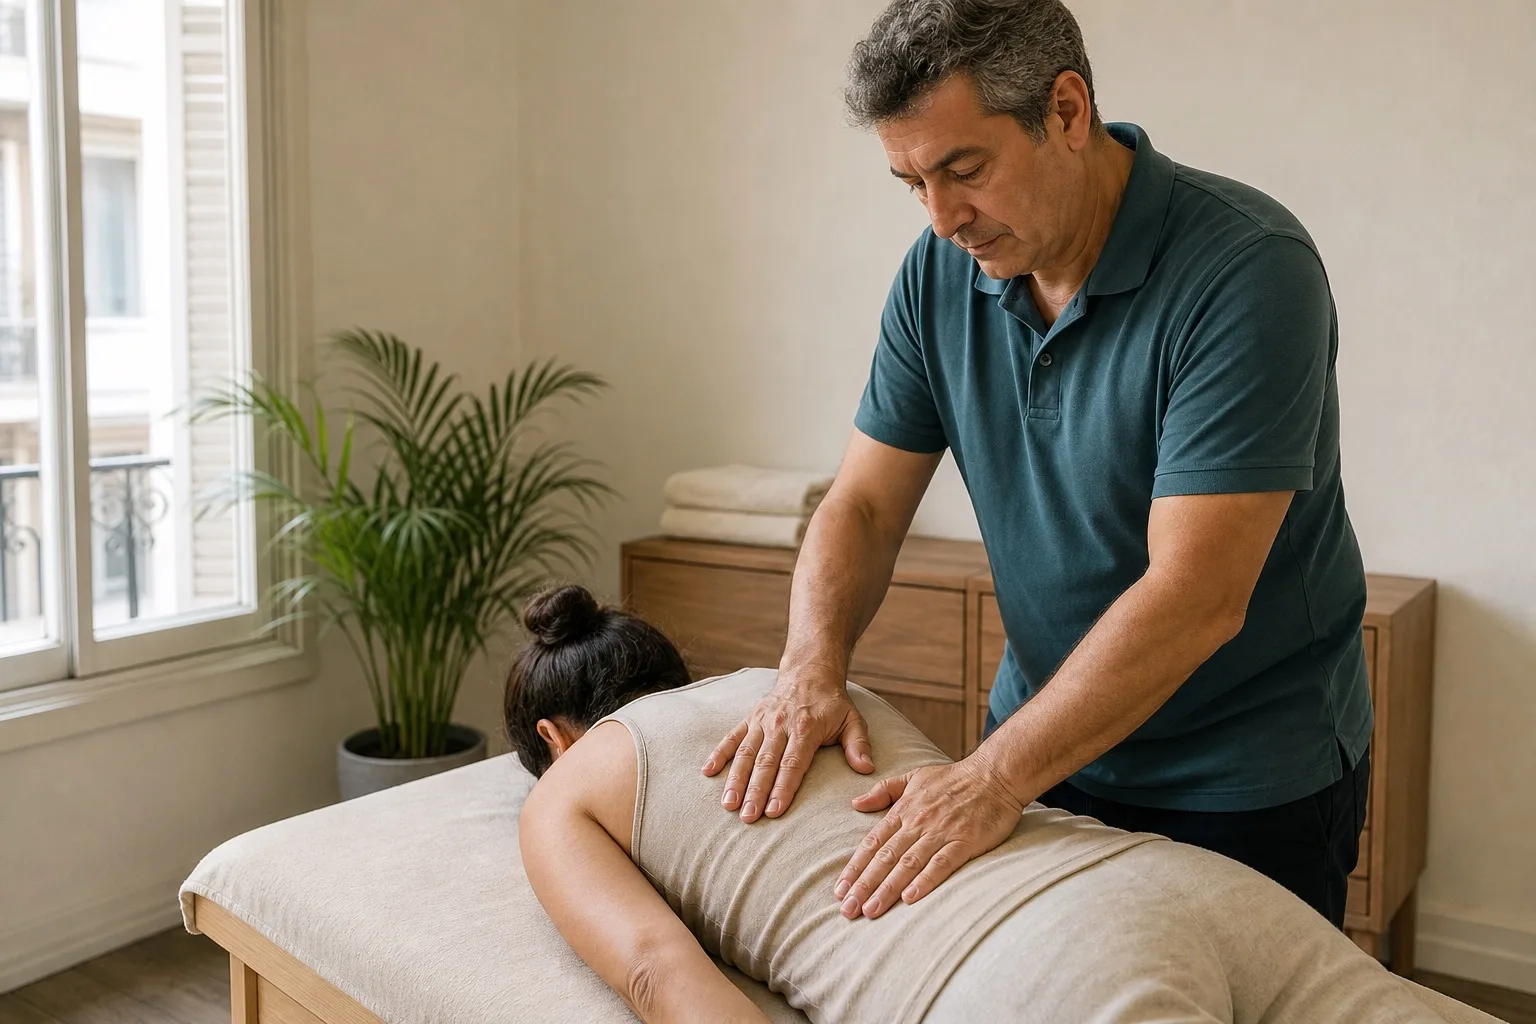
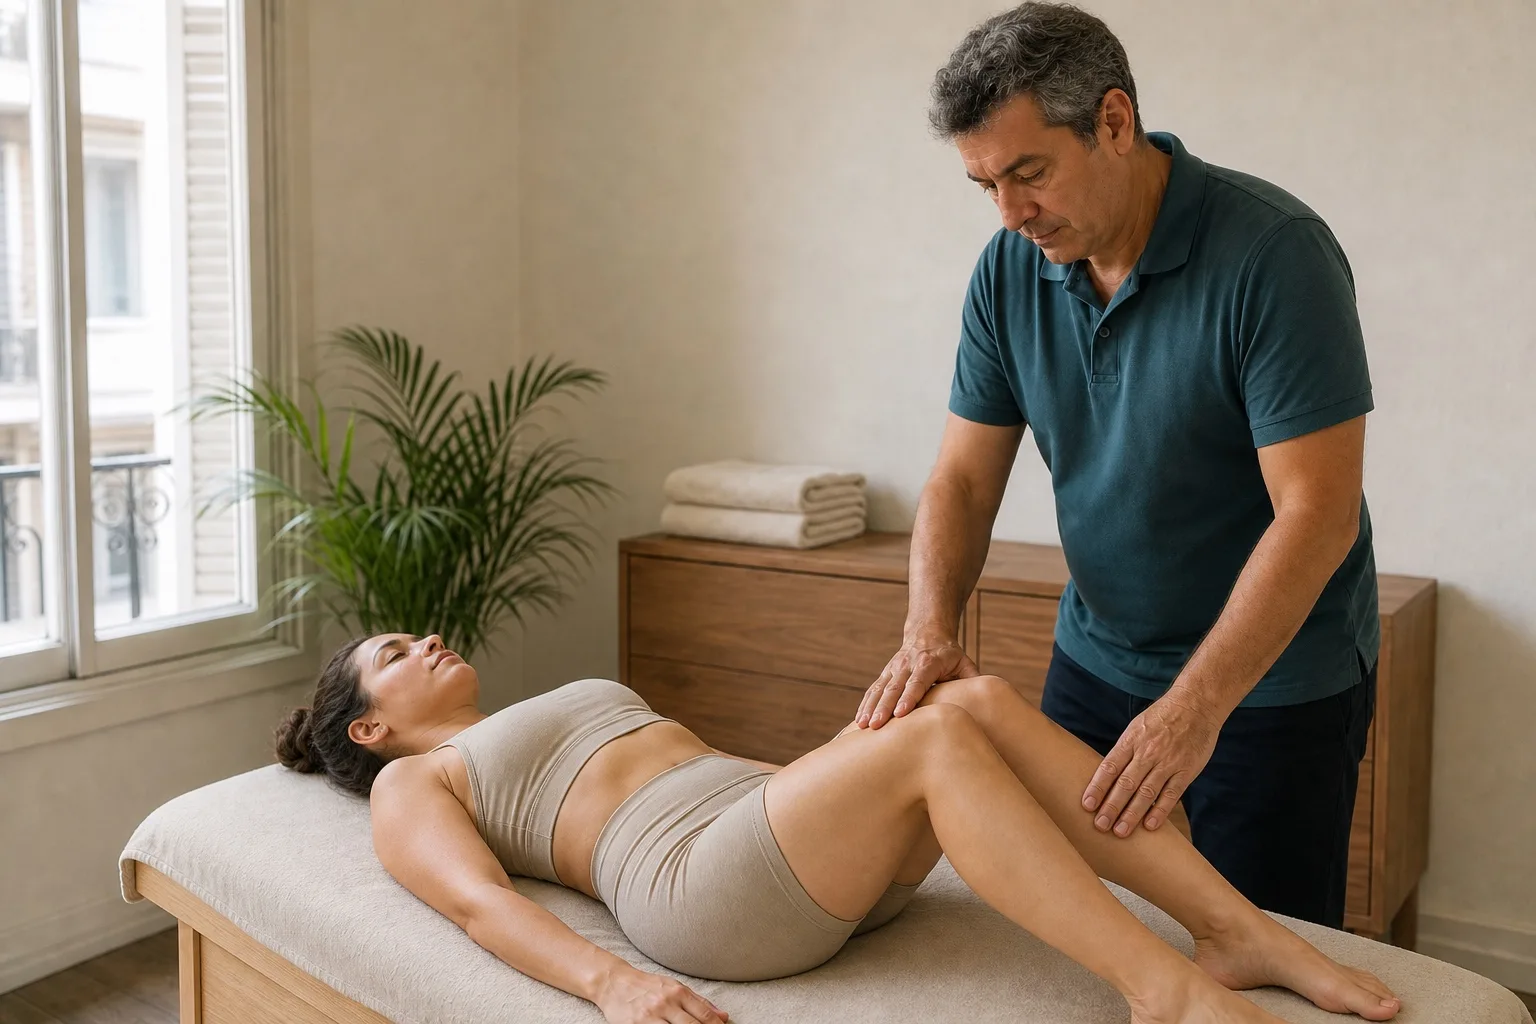
Replace the RPG photo with a supine two-piece session and bust the CDN cache.

diff --git a/rpg.html b/rpg.html
@@ -469,7 +469,7 @@
             <p class="lead">La Reeducación Postural Global es un Método de Tratamiento creado en 1980 por el fisioterapeuta PH Souchard. Investigando en la organización postural concluyó que la Postura depende de la tensión de los músculos estáticos (los que se oponen a la acción de la Fuerza de Gravedad). Definió la forma en que se organizan estos músculos con el nombre de Cadenas Musculares.</p>
           </div>
           <figure class="method-figure">
-            <img src="images/rpg.webp?v=1787650431" alt="RPG – Reeducación postural global" width="1536" height="1024" decoding="async" fetchpriority="high" />
+            <img src="images/rpg.webp?v=1787654492" alt="RPG – Reeducación postural global" width="1536" height="1024" decoding="async" fetchpriority="high" />
           </figure>
           <div class="method-page-body">
             <p>Se realiza una evaluación donde se define cuáles son las cadenas que más se acortaron y se relacionan con el motivo de consulta. Utiliza posturas de tratamiento para estirarlas en forma suave, progresiva y sostenida. Son posturas activas donde el terapeuta guía el estiramiento y corrige las compensaciones. Busca remontar del síntoma a la causa primaria en el desalineamiento postural. Se trabaja en sesiones individuales. La frecuencia de las sesiones es generalmente semanal.</p>

diff --git a/fr/rpg.html b/fr/rpg.html
@@ -469,7 +469,7 @@
             <p class="lead">La RPG est une méthode créée en 1980 par le kinésithérapeute PH Souchard. Ses recherches sur l'organisation posturale ont montré que la posture dépend de la tension des muscles statiques (ceux qui s'opposent à la gravité).</p>
           </div>
           <figure class="method-figure">
-            <img src="../images/rpg.webp?v=1787650431" alt="RPG — Rééducation posturale globale" width="1536" height="1024" decoding="async" fetchpriority="high" />
+            <img src="../images/rpg.webp?v=1787654492" alt="RPG — Rééducation posturale globale" width="1536" height="1024" decoding="async" fetchpriority="high" />
           </figure>
           <div class="method-page-body">
             <p>Il a défini leur organisation sous le nom de chaînes musculaires. Une évaluation détermine quelles chaînes sont les plus raccourcies et leur lien avec le motif de consultation. Des postures de traitement étirent ces chaînes en douceur, progressivement et durablement. Ce sont des postures actives : le thérapeute guide l'étirement et corrige les compensations. L'objectif est de remonter du symptôme à la cause posturale. Les séances sont individuelles, en général une fois par semaine.</p>

diff --git a/en/rpg.html b/en/rpg.html
@@ -469,7 +469,7 @@
             <p class="lead">RPG is a treatment method created in 1980 by physiotherapist PH Souchard. Through his research on postural organization, he concluded that posture depends on the tension of static muscles (those that oppose the action of gravity).</p>
           </div>
           <figure class="method-figure">
-            <img src="../images/rpg.webp?v=1787650431" alt="RPG – Global Postural Reeducation" width="1536" height="1024" decoding="async" fetchpriority="high" />
+            <img src="../images/rpg.webp?v=1787654492" alt="RPG – Global Postural Reeducation" width="1536" height="1024" decoding="async" fetchpriority="high" />
           </figure>
           <div class="method-page-body">
             <p>He defined the way these muscles are organized as muscle chains. An evaluation identifies which chains have shortened most and how they relate to your presenting complaint. Treatment postures gently, progressively, and sustainably stretch them. These are active postures where the therapist guides the stretch and corrects compensations. The goal is to address the underlying postural cause behind the symptom. Sessions are one-to-one and usually scheduled weekly.</p>

diff --git a/pt/rpg.html b/pt/rpg.html
@@ -465,7 +465,7 @@
             <p class="lead">A RPG é um método criado em 1980 pelo fisioterapeuta PH Souchard. Suas pesquisas sobre organização postural mostraram que a postura depende da tensão dos músculos estáticos (aqueles que se opõem à gravidade).</p>
           </div>
           <figure class="method-figure">
-            <img src="../images/rpg.webp?v=1787650431" alt="RPG — Reeducação Postural Global" width="1536" height="1024" decoding="async" fetchpriority="high" />
+            <img src="../images/rpg.webp?v=1787654492" alt="RPG — Reeducação Postural Global" width="1536" height="1024" decoding="async" fetchpriority="high" />
           </figure>
           <div class="method-page-body">
             <p>Ele definiu essa organização como cadeias musculares. Uma avaliação identifica quais cadeias estão mais encurtadas e como se relacionam com o motivo da consulta. Posturas terapêuticas alongam essas cadeias de forma suave, progressiva e sustentável. São posturas ativas: o terapeuta orienta o alongamento e corrige compensações. O objetivo é ir do sintoma à causa postural. As sessões são individuais, em geral semanais.</p>

diff --git a/fr/index.html b/fr/index.html
@@ -501,7 +501,7 @@
           <div class="col-lg-4 col-md-4 col-sm-12 col-xs-12">
             <div class="service-block">
               <div class="service-img mb20">
-                <a href="/fr/rpg.html"><img src="../images/rpg.webp?v=1787650431" title="RPG"
+                <a href="/fr/rpg.html"><img src="../images/rpg.webp?v=1787654492" title="RPG"
                     alt="Séance de rééducation posturale globale (RPG)" class="img-responsive" loading="lazy" /></a>
               </div>
               <div class="service-content">

diff --git a/pt/index.html b/pt/index.html
@@ -497,7 +497,7 @@
           <div class="col-lg-4 col-md-4 col-sm-12 col-xs-12">
             <div class="service-block">
               <div class="service-img mb20">
-                <a href="/pt/rpg.html"><img src="../images/rpg.webp?v=1787650431" title="RPG"
+                <a href="/pt/rpg.html"><img src="../images/rpg.webp?v=1787654492" title="RPG"
                     alt="Sessão de Reeducação Postural Global (RPG)" class="img-responsive" loading="lazy" /></a>
               </div>
               <div class="service-content">

diff --git a/en/index.html b/en/index.html
@@ -502,7 +502,7 @@
           <div class="col-lg-4 col-md-4 col-sm-12 col-xs-12">
             <div class="service-block">
               <div class="service-img mb20">
-                <a href="/en/rpg.html"><img src="../images/rpg.webp?v=1787650431" title="RPG"
+                <a href="/en/rpg.html"><img src="../images/rpg.webp?v=1787654492" title="RPG"
                     alt="Global Postural Reeducation (RPG) session" class="img-responsive" loading="lazy" /></a>
               </div>
               <div class="service-content">

diff --git a/index.html b/index.html
@@ -502,7 +502,7 @@
           <div class="col-lg-4 col-md-4 col-sm-12 col-xs-12">
             <div class="service-block">
               <div class="service-img mb20">
-                <a href="/rpg.html"><img src="images/rpg.webp?v=1787650431" title="rpg"
+                <a href="/rpg.html"><img src="images/rpg.webp?v=1787654492" title="rpg"
                     alt="Sesión de Reeducación Postural Global (RPG)" class="img-responsive" loading="lazy" /></a>
               </div>
               <div class="service-content">
